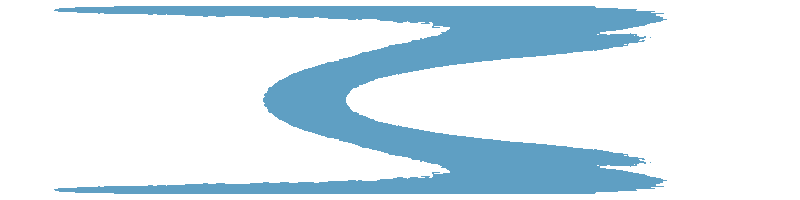
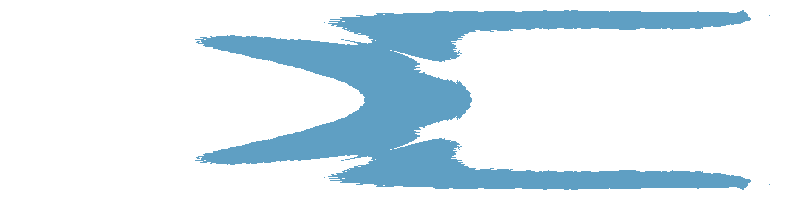
Updated test_1 results for PMR

Changed region(s): [[0.0625, 0.03, 0.9375, 0.99]]

diff --git a/Results_PMR/report.md b/Results_PMR/report.md
@@ -93,8 +93,8 @@ Result pillar sequence = [7, 6, 21, 22, 29, 8, 30]
 
 ### test_1
 ```
-Fitness = 0.986
-Result pillar sequence = [5, 29, 31, 1, 1, 11, 26]
+Fitness = 0.966
+Result pillar sequence = [26, 6, 17, 29, 27, 5, 21]
 ```
 <table><tr><th> Target </th><th> Result </th></tr><tr>
 <td><img src="job_7/target.png" alt="target" width="400"/></td>
